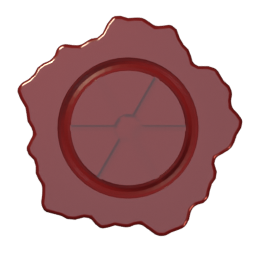
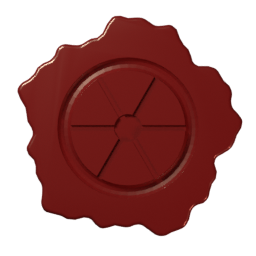
UI: moon-lit run card, aged ledger and dossier, re-rendered wax, before/after report
Run card tinted and vignetted by outcome; Line Mastery stats on an aged ledger card; dossier
sheet aged; vote banner a telegraph strip on oxblood; workshop rows lacquered; struggle
keycap brass. Wax seal re-rendered without the pink overhead sheen and drawn larger; paper
grain fainter and wider so it does not repeat; the stop ticket idles at 80% so it reads.
Report with half-scale captures in docs/ui-overhaul.

diff --git a/tools/uiart/render_ornaments.py b/tools/uiart/render_ornaments.py
@@ -159,7 +159,8 @@ render("rivet.png", 32, cam, 2.0)
 
 # 4. Wax seal, 256px: ragged poured disc, raised rim, a six-spoke wheel pressed into it.
 scene, cam = reset()
-wax = material("Wax", (0.16, 0.008, 0.01), roughness=0.2, coat=1.0, bump=0.04)
+bpy.data.objects.remove(bpy.data.objects["Fill"])  # a flat overhead fill turns the coat pink
+wax = material("Wax", (0.16, 0.008, 0.01), roughness=0.3, coat=0.5, bump=0.04)
 bpy.ops.mesh.primitive_cylinder_add(vertices=96, radius=0.9, depth=0.18)
 seal = bpy.context.object
 seal.data.materials.append(wax)

diff --git a/docs/ui-overhaul/REPORT.md b/docs/ui-overhaul/REPORT.md
@@ -1,0 +1,27 @@
+# UI overhaul: Blood Moon Mail (2026-10-08)
+
+Before shots are the Night Mail pass (`docs/compare/after_*`); after shots are Studio play captures, at half scale.
+
+| Surface | Before | After |
+|---|---|---|
+| Lobby | ![](before_lobby.jpg) | ![](after_lobby.jpg) |
+| Route vote | ![](before_route_vote.jpg) | ![](after_route_vote.jpg) |
+| Run receipt | ![](before_run_receipt.jpg) | ![](after_run_receipt.jpg) |
+| Run HUD | | ![](after_run_hud.jpg) |
+| Modal shell | | ![](after_modal_shell.jpg) |
+
+## What changed
+- **Design system** (`UI/Theme`): darker palette (soot, oxblood leather, bottle-green lacquer, mahogany, ember, amber, moon red, deep blood), aged amber card instead of grey-green, bone text instead of white, Merriweather body, Fondamento hand. `Theme.Image` lists the baked textures; `Theme.Slice` the rim widths.
+- **Assets** (`assets/ui`, sources in `tools/uiart`, credits in `docs/ASSET_CREDITS.md`): Blender renders of the brass frame, rivet, wax seal, watch bezel and enamel plate; NumPy textures for paper grain, iron grain, edge burn, glow, stamp grunge, vignette and punch holes; two 9-slice composites (iron panel with brass rim, aged card).
+- **Shared components** (`UI/Ui`): panels are textured iron in a blackened-brass rim; tickets are aged, scorched card with grain and punched perforations; buttons have an enamel gradient, and Secondary is now oxblood with brass text; meters are glass tubes in an engraved channel.
+- **Modal shell**: oxblood title board with rendered rivets, a thicker rim and a backdrop dark with a red tint.
+- **Prompts**: iron plate, brass keycap, ember hold bar.
+- **HUD**: Blender bezel on the pocket watch; its rim burns ember, then moon red, in the last seconds; brass-rimmed hotbar wells; the stop ticket idles at 80% opacity so it stays readable.
+- **Route tickets**: aged stock, rendered wax seals with the number pressed in, oxblood vote button (brass when chosen), ember selection rim, leather flap. The sealed ticket's lantern now glows blood red. The vote banner is a telegraph strip on oxblood. The dossier sheet is aged card.
+- **Run receipt**: rebuilt as a company slip: header band (company, tier), rubber-stamped outcome with ink knock-outs, a handwritten line, dotted-leader ledger, a double totals rule, an iron Brass/XP strip and a tear-off foot. It is sized to its content, red-lit for lost runs and warm for the Terminus.
+- **Run card**: tinted and vignetted by outcome. **Line Mastery**: stats sit on an aged ledger card. **Workshop**: lacquered rows. **Struggle**: brass keycap.
+
+## Not verified
+- I could not drive the Studio window (computer-use access was declined), so I opened Outfitter, Workshop and Line Mastery only by forcing them visible, with no data in them. I could not test hover, pressed or gamepad-focus states, the Device Simulator (phone and tablet), the expanded or voted ticket states, the sealed ticket, or a victory receipt.
+- I have not restyled the TicketBook, Unseal, Spectate, CarBoarding, ChalkSlate or Overlay toasts on their own; they only pick up the new palette.
+- The uploaded image ids are new. If an image is still in moderation it shows blank until Roblox approves it.
